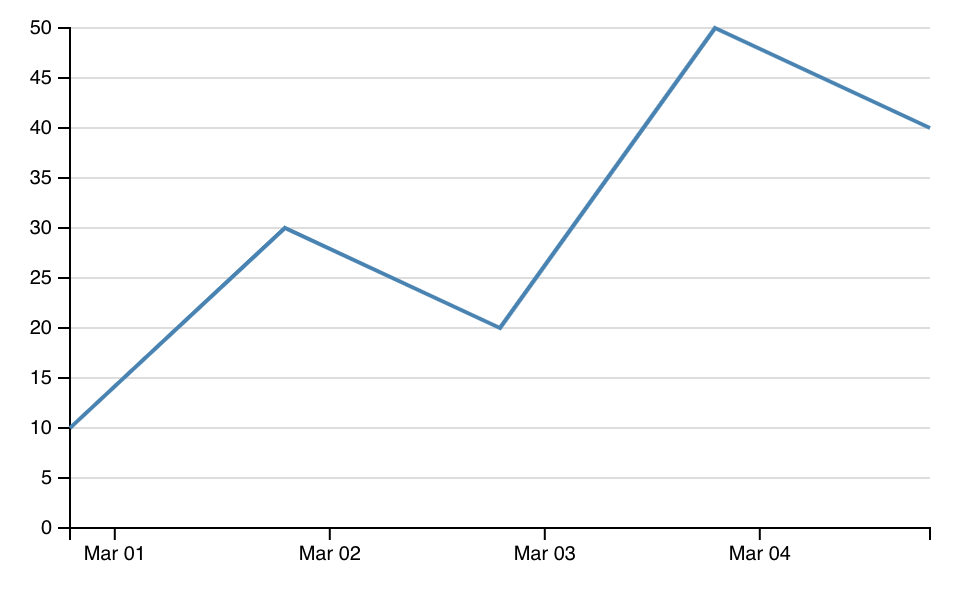
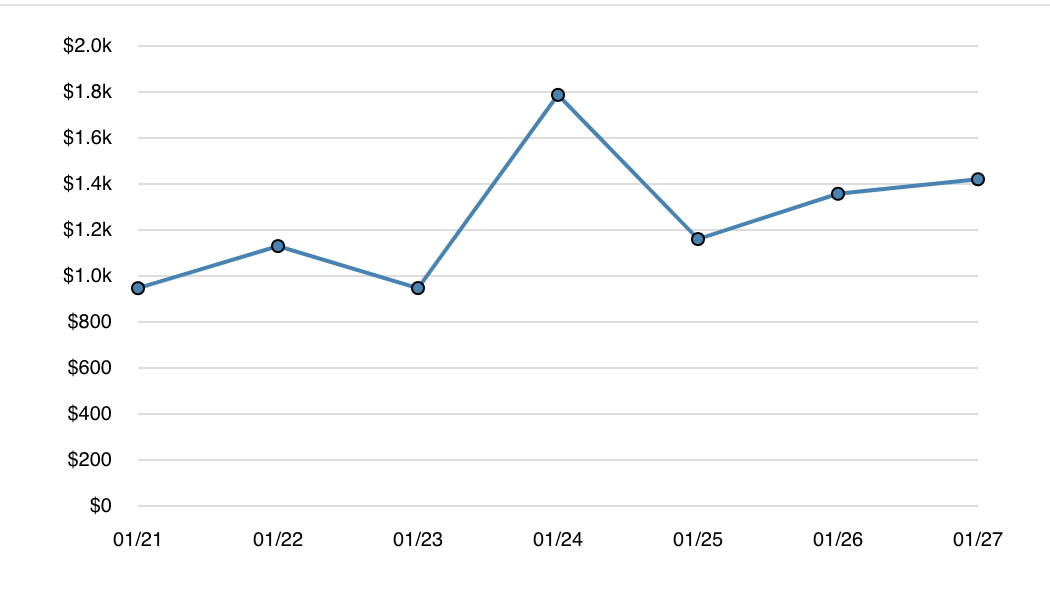
added dot with remove axis line

diff --git a/src/components/LineChart.js b/src/components/LineChart.js
@@ -10,18 +10,24 @@ const LineChart = ({ data, width = 500, height = 300 }) => {
     const svg = d3.select(svgRef.current);
     svg.selectAll("*").remove(); // Clear previous drawings
 
-    const margin = { top: 20, right: 30, bottom: 30, left: 40 };
+    // Increase margins to add more space between graph and labels
+    const margin = { top: 20, right: 30, bottom: 50, left: 50 }; // Increased bottom and left margin for padding
     const innerWidth = width - margin.left - margin.right;
     const innerHeight = height - margin.top - margin.bottom;
 
+    // Create xScale for date range and format the dates
     const xScale = d3
       .scaleTime()
       .domain(d3.extent(data, (d) => new Date(d.date)))
       .range([0, innerWidth]);
 
+    // Calculate the maximum value of y and round it up to the nearest multiple of $500
+    const maxY = Math.ceil(d3.max(data, (d) => d.value) / 500) * 500;
+
+    // Create yScale for currency values, ensuring it increments by $500
     const yScale = d3
       .scaleLinear()
-      .domain([0, d3.max(data, (d) => d.value)])
+      .domain([0, maxY]) // Domain ends at the rounded maxY
       .nice()
       .range([innerHeight, 0]);
 
@@ -38,7 +44,7 @@ const LineChart = ({ data, width = 500, height = 300 }) => {
     // Add horizontal grid lines
     g.append("g")
       .selectAll("line")
-      .data(yScale.ticks())
+      .data(yScale.ticks()) // Generate ticks based on yScale
       .enter()
       .append("line")
       .attr("x1", 0)
@@ -47,18 +53,46 @@ const LineChart = ({ data, width = 500, height = 300 }) => {
       .attr("y2", (d) => yScale(d))
       .attr("stroke", "#ddd");
 
+    // X-axis: format the dates as M/DD (but don't show the axis line or ticks)
     g.append("g")
-      .attr("transform", `translate(0,${innerHeight})`)
-      .call(d3.axisBottom(xScale).ticks(5).tickFormat(d3.timeFormat("%b %d")));
+      .attr("transform", `translate(0,${innerHeight + 10})`) // Add some padding below the graph for the X-axis labels
+      .call(d3.axisBottom(xScale).ticks(5).tickFormat(d3.timeFormat("%m/%d")).tickSize(0)); // Remove ticks
+    g.select(".domain").remove(); // Remove the X-axis line (domain)
 
-    g.append("g").call(d3.axisLeft(yScale));
+    // Y-axis: display currency in increments of $500 (but don't show the axis line or ticks)
+    g.append("g")
+      .attr("transform", `translate(-10,0)`) // Add some padding to the left of the graph for the Y-axis labels
+      .call(d3.axisLeft(yScale)
+        .tickFormat((d) => {
+          // Format numbers larger than 1000 with "k"
+          if (d >= 1000) {
+            return `$${(d / 1000).toFixed(1)}k`;
+          }
+          return `$${d}`;
+        })
+        .tickSize(0)) // Remove ticks
+      .select(".domain") // Remove the axis line (domain)
+      .remove();
 
+    // Add the line path
     g.append("path")
       .datum(data)
       .attr("fill", "none")
       .attr("stroke", "steelblue")
       .attr("stroke-width", 2)
       .attr("d", line);
+
+    // Add smaller dots for each value on the line
+    g.selectAll("dot")
+      .data(data)
+      .enter()
+      .append("circle")
+      .attr("cx", (d) => xScale(new Date(d.date)))
+      .attr("cy", (d) => yScale(d.value))
+      .attr("r", 3) // Reduced size of the dot (radius set to 3)
+      .attr("fill", "steelblue")
+      .attr("stroke", "black") // Optional: add a black border for bold effect
+      .attr("stroke-width", 1); // Optional: reduce the border width
   }, [data, width, height]);
 
   return <svg ref={svgRef} width={width} height={height}></svg>;

diff --git a/src/App.js b/src/App.js
@@ -3,11 +3,13 @@ import "./App.css";
 import LineChart from "./components/LineChart";
 
 const sampleData = [
-  { date: "2024-03-01", value: 10 },
-  { date: "2024-03-02", value: 30 },
-  { date: "2024-03-03", value: 20 },
-  { date: "2024-03-04", value: 50 },
-  { date: "2024-03-05", value: 40 },
+  { date: "1/21", value: 947 },
+  { date: "1/22", value: 1130 },
+  { date: "1/23", value: 947.50 },
+  { date: "1/24", value: 1787.50 },
+  { date: "1/25", value: 1160.50 },
+  { date: "1/26", value: 1357.50 },
+  { date: "1/27", value: 1420.50 },
 ];
 
 function App() {
